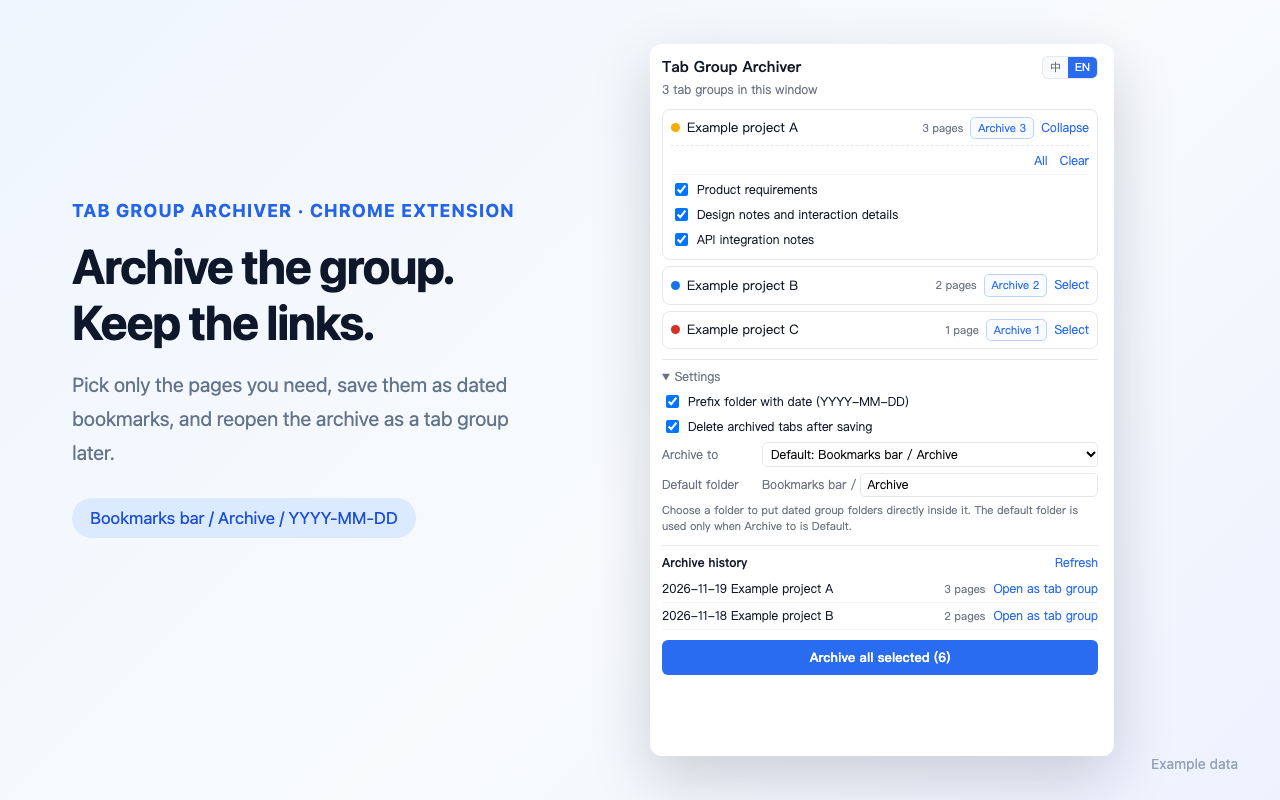
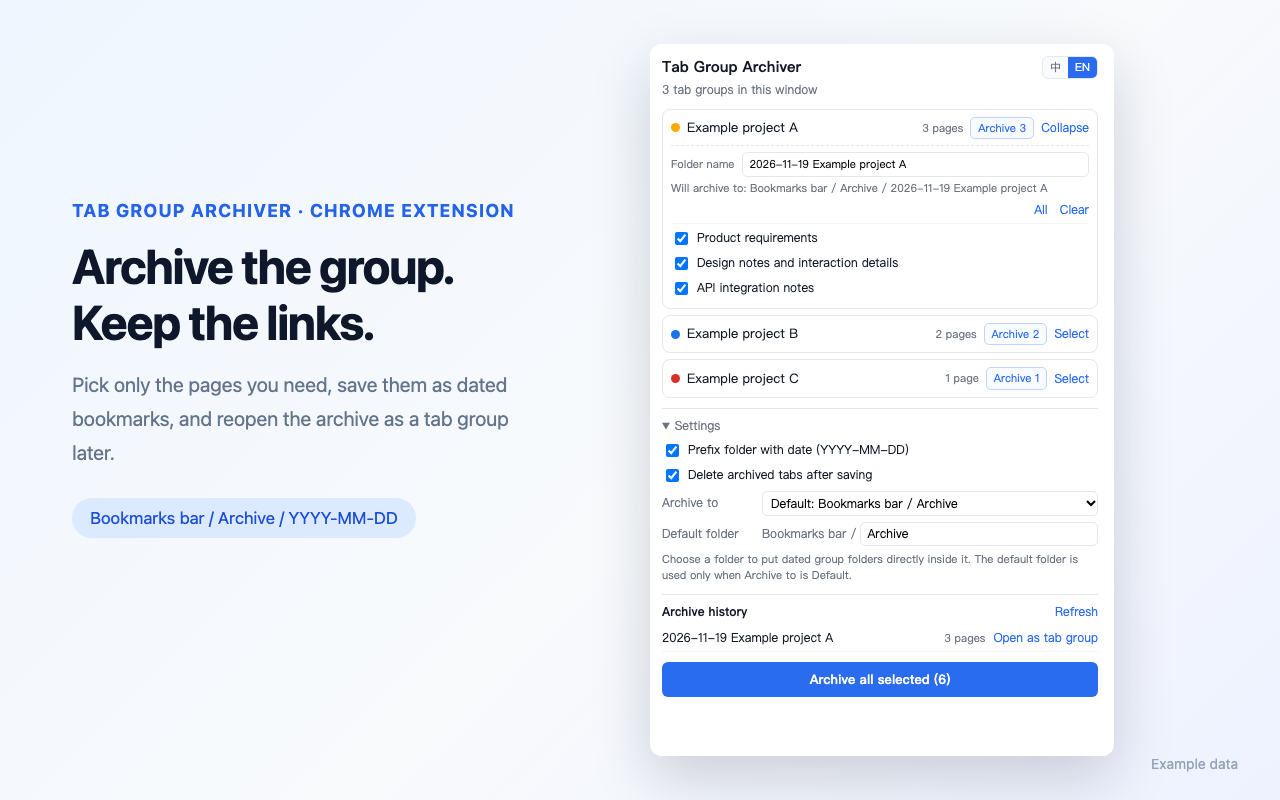
feat: allow custom archive folder names

diff --git a/popup.js b/popup.js
@@ -1,4 +1,5 @@
 import {
+  buildFolderTitle,
   defaultSettingsFor,
   isBookmarkableUrl,
   normalizeRootFolder,
@@ -43,6 +44,8 @@ let settings = defaultSettingsFor('en');
 let groups = [];
 let destinations = [];
 let selectedByGroup = new Map();
+let folderDrafts = new Map();
+let folderEdited = new Set();
 let busy = false;
 let language = 'en';
 
@@ -118,6 +121,7 @@ async function persistSettings() {
     language,
   };
   els.rootFolder.value = settings.rootFolder;
+  refreshFolderNames();
   if (els.destination.options[0]) {
     els.destination.options[0].text = t(language, 'defaultDestination', { folder: settings.rootFolder });
   }
@@ -165,6 +169,18 @@ async function loadGroups() {
 async function render() {
   groups = await loadGroups();
   selectedByGroup = new Map();
+
+  const groupIds = new Set(groups.map((group) => group.id));
+  for (const id of folderDrafts.keys()) {
+    if (!groupIds.has(id)) {
+      folderDrafts.delete(id);
+      folderEdited.delete(id);
+    }
+  }
+  for (const group of groups) {
+    if (!folderEdited.has(group.id)) folderDrafts.set(group.id, defaultFolderTitle(group));
+  }
+
   els.list.textContent = '';
 
   for (const group of groups) {
@@ -182,6 +198,39 @@ async function render() {
   }
   updateActionLabels();
   setBusy(busy);
+}
+
+function defaultFolderTitle(group) {
+  return buildFolderTitle(group.title, settings.datePrefix, new Date(), untitledGroup(language));
+}
+
+function destinationBasePath() {
+  const selected = destinations.find((folder) => folder.id === settings.destinationFolderId);
+  return selected?.path || `${t(language, 'bookmarksBar')} ${settings.rootFolder}`;
+}
+
+function pathPreviewText(group) {
+  const input = els.list.querySelector(`[data-folder-input="${group.id}"]`);
+  const folder = input?.value.trim() || defaultFolderTitle(group);
+  return t(language, 'pathPreview', { path: destinationBasePath(), folder });
+}
+
+function refreshFolderNames() {
+  for (const group of groups) {
+    if (folderEdited.has(group.id)) continue;
+    const value = defaultFolderTitle(group);
+    folderDrafts.set(group.id, value);
+    const input = els.list.querySelector(`[data-folder-input="${group.id}"]`);
+    if (input) input.value = value;
+  }
+  refreshPathPreviews();
+}
+
+function refreshPathPreviews() {
+  for (const group of groups) {
+    const preview = els.list.querySelector(`[data-path-preview="${group.id}"]`);
+    if (preview) preview.textContent = pathPreviewText(group);
+  }
 }
 
 function groupRow(group) {
@@ -211,7 +260,7 @@ function groupRow(group) {
   saveButton.title = t(language, 'archiveTitle');
   saveButton.addEventListener('click', () => {
     const tabIds = [...(selectedByGroup.get(group.id) || [])];
-    void saveTargets([{ groupId: group.id, tabIds }]);
+    void saveTargets([{ groupId: group.id, tabIds, folderTitle: folderDrafts.get(group.id) || '' }]);
   });
 
   head.append(dot, name, count, saveButton);
@@ -242,7 +291,34 @@ function groupRow(group) {
   clearAll.className = 'link-button';
   clearAll.textContent = t(language, 'clear');
   tools.append(selectAll, clearAll);
-  tabsBox.append(tools);
+
+  const folderRow = document.createElement('label');
+  folderRow.className = 'folder-row';
+  const folderLabel = document.createElement('span');
+  folderLabel.textContent = t(language, 'folderName');
+  const folderInput = document.createElement('input');
+  folderInput.type = 'text';
+  folderInput.className = 'folder-input';
+  folderInput.dataset.folderInput = String(group.id);
+  folderInput.value = folderDrafts.get(group.id) || defaultFolderTitle(group);
+  folderInput.placeholder = t(language, 'folderNamePlaceholder');
+  folderInput.spellcheck = false;
+  folderInput.addEventListener('input', () => {
+    folderDrafts.set(group.id, folderInput.value);
+    folderEdited.add(group.id);
+    refreshPathPreviews();
+  });
+  folderRow.append(folderLabel, folderInput);
+
+  const pathPreview = document.createElement('div');
+  pathPreview.className = 'path-preview';
+  pathPreview.dataset.pathPreview = String(group.id);
+  pathPreview.textContent = t(language, 'pathPreview', {
+    path: destinationBasePath(),
+    folder: folderInput.value.trim() || defaultFolderTitle(group),
+  });
+
+  tabsBox.append(folderRow, pathPreview, tools);
   head.append(toggle);
 
   for (const tab of group.tabs) {
@@ -301,7 +377,11 @@ function groupRow(group) {
 
 function targetsFromGroups() {
   return groups
-    .map((group) => ({ groupId: group.id, tabIds: [...(selectedByGroup.get(group.id) || [])] }))
+    .map((group) => ({
+      groupId: group.id,
+      tabIds: [...(selectedByGroup.get(group.id) || [])],
+      folderTitle: folderDrafts.get(group.id) || '',
+    }))
     .filter((target) => target.tabIds.length > 0);
 }
 

diff --git a/background.js b/background.js
@@ -4,6 +4,7 @@ import {
   isBookmarkableUrl,
   normalizeRootFolder,
   pickTabUrl,
+  sanitizeFolderTitle,
 } from './lib.js';
 import { defaultRootFolder, normalizeLanguage, t, untitledGroup } from './i18n.js';
 
@@ -61,6 +62,7 @@ function normalizeTargets(raw) {
       tabIds: Array.isArray(target?.tabIds)
         ? [...new Set(target.tabIds.filter((id) => Number.isInteger(id) && id > 0))]
         : [],
+      folderTitle: typeof target?.folderTitle === 'string' ? target.folderTitle : '',
     }))
     .filter((target) => Number.isInteger(target.groupId) && target.groupId > 0 && target.tabIds.length > 0);
 }
@@ -111,7 +113,8 @@ async function archiveGroup(target, parentId, settings) {
   const selected = new Set(target.tabIds);
   const tabs = (await chrome.tabs.query({ groupId: target.groupId }))
     .filter((tab) => selected.has(tab.id));
-  const folderTitle = buildFolderTitle(group.title, settings.datePrefix, new Date(), untitledGroup(settings.language));
+  const customTitle = sanitizeFolderTitle(target.folderTitle).slice(0, 120);
+  const folderTitle = customTitle || buildFolderTitle(group.title, settings.datePrefix, new Date(), untitledGroup(settings.language));
   const folder = await ensureFolder(parentId, folderTitle);
   const folderId = folder.id;
   const existing = new Set(

diff --git a/i18n.js b/i18n.js
@@ -7,6 +7,9 @@ const MESSAGES = {
     appTitle: 'Tab Group Archiver',
     appHint: 'Select pages to archive into bookmarks',
     settingsTitle: 'Settings',
+    folderName: 'Folder name',
+    folderNamePlaceholder: 'Leave blank for automatic name',
+    pathPreview: 'Will archive to: {path} / {folder}',
     datePrefix: 'Prefix folder with date (YYYY-MM-DD)',
     closeAfterSave: 'Delete archived tabs after saving',
     archiveTo: 'Archive to',
@@ -65,6 +68,9 @@ const MESSAGES = {
     appTitle: '收录标签组',
     appHint: '选择要归档的页面，存成书签文件夹',
     settingsTitle: '设置',
+    folderName: '文件夹名',
+    folderNamePlaceholder: '留空使用自动名称',
+    pathPreview: '将归档到：{path} / {folder}',
     datePrefix: '文件夹名带日期（YYYY-MM-DD）',
     closeAfterSave: '归档成功后删除已收录页面',
     archiveTo: '归档到',

diff --git a/popup.css b/popup.css
@@ -153,6 +153,37 @@ button:not(:disabled) {
   border-bottom: 1px solid #f3f4f6;
 }
 
+.folder-row {
+  display: flex;
+  align-items: center;
+  gap: 8px;
+  margin-bottom: 4px;
+}
+
+.folder-row > span {
+  flex: none;
+  color: var(--muted);
+  font-size: 11px;
+}
+
+.folder-input {
+  flex: 1;
+  min-width: 0;
+  padding: 3px 6px;
+  border: 1px solid var(--line);
+  border-radius: 5px;
+  font: inherit;
+  font-size: 11px;
+}
+
+.path-preview {
+  margin-bottom: 5px;
+  color: var(--muted);
+  font-size: 11px;
+  line-height: 1.4;
+  overflow-wrap: anywhere;
+}
+
 .tabs {
   margin-top: 6px;
   padding-top: 6px;

diff --git a/README.md b/README.md
@@ -6,7 +6,7 @@
 [![License: MIT](https://img.shields.io/badge/License-MIT-yellow.svg)](LICENSE)
 [![Latest release](https://img.shields.io/github/v/release/FinA1ee/chrome-tabgroup-bookmark)](https://github.com/FinA1ee/chrome-tabgroup-bookmark/releases)
 
-[中文说明](README.zh-CN.md) · [Latest release](https://github.com/FinA1ee/chrome-tabgroup-bookmark/releases/tag/v1.1.7) · [Privacy](PRIVACY.md) · [MIT License](LICENSE)
+[中文说明](README.zh-CN.md) · [Latest release](https://github.com/FinA1ee/chrome-tabgroup-bookmark/releases/tag/v1.1.8) · [Privacy](PRIVACY.md) · [MIT License](LICENSE)
 
 ![Tab Group Archiver](docs/screenshots/hero.png)
 
@@ -23,6 +23,7 @@ The extension is local-only: no account, no backend, no analytics, no network re
 - **Pick only the tabs you need.** Expand a group and uncheck pages you do not want to keep.
 - **Dated archive folders.** The default layout is `Bookmarks bar / Archive / YYYY-MM-DD Group name`.
 - **Choose a destination.** Use the default archive folder or any existing bookmark folder.
+- **Rename the archive folder.** Each group gets an editable folder name with a live destination preview; leave it blank to use the automatic dated name.
 - **Safe to repeat.** Existing folders are reused and duplicate URLs are skipped.
 - **Delete after archiving.** On by default: only successfully archived, selected tabs are closed. Unselected tabs and failed writes are kept.
 - **Reopen an archive as a tab group.** The history list can recreate the pages and group them under the original folder name.
@@ -140,7 +141,7 @@ GitHub Actions runs both tests and syntax checks on every push.
 
 ## Release
 
-- [v1.1.7](https://github.com/FinA1ee/chrome-tabgroup-bookmark/releases/tag/v1.1.7)
+- [v1.1.8](https://github.com/FinA1ee/chrome-tabgroup-bookmark/releases/tag/v1.1.8)
 - Store copy and screenshot checklist: [STORE.md](STORE.md)
 - Chrome Web Store submission is pending a developer account review.
 

diff --git a/README.zh-CN.md b/README.zh-CN.md
@@ -17,6 +17,7 @@
 - 展开标签组，勾选需要归档的页面，只收录选中的部分
 - 默认归档到 `书签栏 / 需求归档 / YYYY-MM-DD 组名 /`
 - 也可以选择书签栏下的任意具体文件夹作为归档父目录
+- 每组可编辑归档文件夹名，并实时预览最终路径；留空回退自动名称
 - 同名文件夹复用、同 URL 去重，重复点击安全
 - 归档成功后默认删除本次已收录的页面；未选页面保留
 - 有书签写入失败时不删除任何页面
@@ -84,7 +85,7 @@ node --check background.js
 ## 发布
 
 - 扩展目录就是发布目录，无需构建；商店上传时可压缩本目录，排除测试文件和仓库元数据。
-- 最新 Release：[v1.1.7](https://github.com/FinA1ee/chrome-tabgroup-bookmark/releases/tag/v1.1.7)
+- 最新 Release：[v1.1.8](https://github.com/FinA1ee/chrome-tabgroup-bookmark/releases/tag/v1.1.8)
 - 设计说明：[design.md](design.md)
 - 任务拆解：[tasks.md](tasks.md)
 - 隐私说明：[PRIVACY.md](PRIVACY.md)

diff --git a/STORE.md b/STORE.md
@@ -6,7 +6,7 @@
 - 短描述（建议）：把标签组中选中的页面归档成书签，支持日期文件夹和重新打开为标签组。
 - 分类：Productivity
 - 语言：English / 中文（界面右上角可切换）
-- 版本：1.1.4
+- 版本：1.1.8
 - 官网/仓库：https://github.com/FinA1ee/chrome-tabgroup-bookmark
 - 隐私说明：https://github.com/FinA1ee/chrome-tabgroup-bookmark/blob/main/PRIVACY.md
 

diff --git a/CHANGELOG.md b/CHANGELOG.md
@@ -1,5 +1,10 @@
 # Changelog
 
+## 1.1.8
+
+- 每组新增可编辑的归档文件夹名，默认自动生成，留空回退自动名
+- 展开组内显示最终归档路径预览
+
 ## 1.1.7
 
 - 新安装默认使用英文界面；用户仍可用右上角 中 / EN 切换
